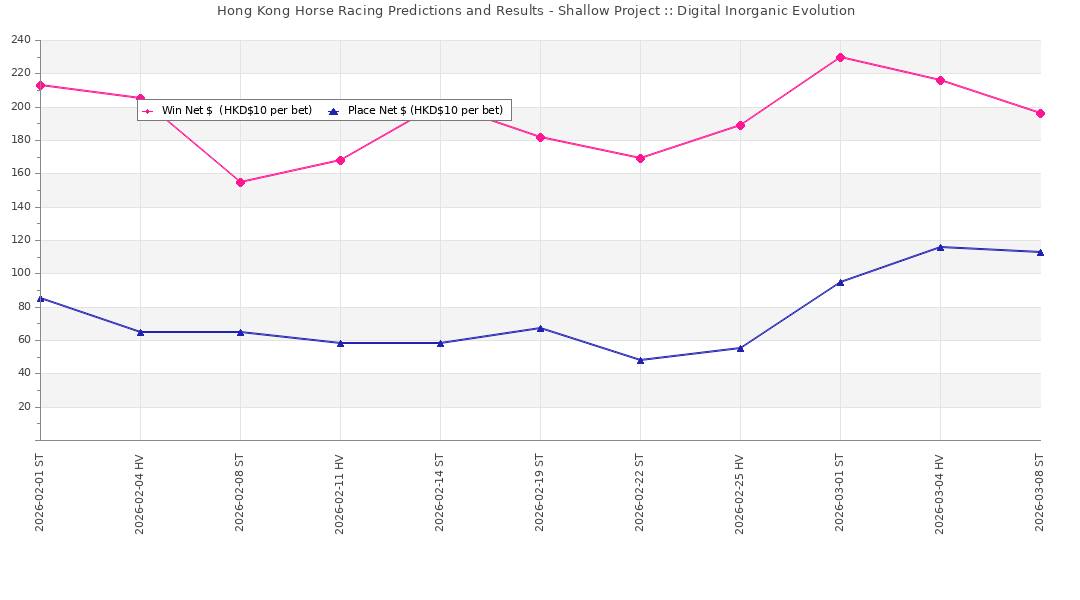
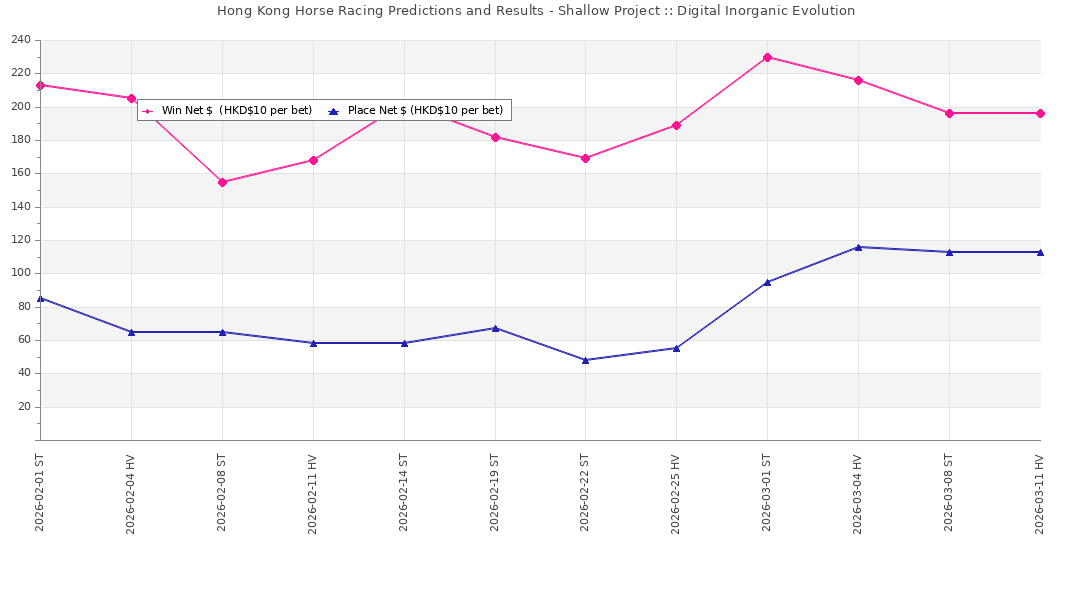
2026-03-11 Predictions

diff --git a/index.html b/index.html
@@ -8,45 +8,49 @@
 <img src='shallow.jpg'>
 <table border=1>
 <tr><th>RaceDate</th><th>RaceCourse</th><th>Course</th><th>Distance</th><th>RaceNo</th><th>HorseNo</th><th>Place</th><th>$Win</th><th>$Win Net Balance</th><th>$Place</th><th>$Place Net Balance</th></tr>
-<tr><td align=center>2026-02-01</td><td align=center>ST</td><td align=center>TURF - "B+2" Course</td><td align=center>1000M</td><td align=center>01</td><td align=center>12</td><td align=center>4</td><td align=right>$0</td><td align=right>$-10</td><td align=right>$0</td><td align=right>$-10</td></tr>
-<tr><td align=center>2026-02-01</td><td align=center>ST</td><td align=center>TURF - "B+2" Course</td><td align=center>1200M</td><td align=center>02</td><td align=center>9</td><td align=center>1</td><td align=right>$100</td><td align=right>$80</td><td align=right>$42</td><td align=right>$22</td></tr>
-<tr><td align=center>2026-02-01</td><td align=center>ST</td><td align=center>TURF - "B+2" Course</td><td align=center>1400M</td><td align=center>03</td><td align=center>1</td><td align=center>1</td><td align=right>$18</td><td align=right>$88</td><td align=right>$15</td><td align=right>$27</td></tr>
-<tr><td align=center>2026-02-01</td><td align=center>ST</td><td align=center>TURF - "B+2" Course</td><td align=center>1200M</td><td align=center>04</td><td align=center>6</td><td align=center>1</td><td align=right>$26</td><td align=right>$104</td><td align=right>$17</td><td align=right>$34</td></tr>
-<tr><td align=center>2026-02-01</td><td align=center>ST</td><td align=center>TURF - "B+2" Course</td><td align=center>1200M</td><td align=center>05</td><td align=center>12</td><td align=center>1</td><td align=right>$95</td><td align=right>$189</td><td align=right>$17</td><td align=right>$41</td></tr>
-<tr><td align=center>2026-02-01</td><td align=center>ST</td><td align=center>TURF - "B+2" Course</td><td align=center>1000M</td><td align=center>06</td><td align=center>7</td><td align=center>3</td><td align=right>$0</td><td align=right>$179</td><td align=right>$17</td><td align=right>$48</td></tr>
-<tr><td align=center>2026-02-01</td><td align=center>ST</td><td align=center>TURF - "B+2" Course</td><td align=center>1600M</td><td align=center>10</td><td align=center>8</td><td align=center>1</td><td align=right>$54</td><td align=right>$223</td><td align=right>$34</td><td align=right>$72</td></tr>
-<tr><td align=center>2026-02-01</td><td align=center>ST</td><td align=center>TURF - "B+2" Course</td><td align=center>1400M</td><td align=center>11</td><td align=center>2</td><td align=center>2</td><td align=right>$0</td><td align=right>$213</td><td align=right>$23</td><td align=right>$85</td></tr>
-<tr><td align=center>2026-02-04</td><td align=center>HV</td><td align=center>TURF - "C+3" Course</td><td align=center>1800M</td><td align=center>04</td><td align=center>3</td><td align=center>8</td><td align=right>$0</td><td align=right>$203</td><td align=right>$0</td><td align=right>$75</td></tr>
-<tr><td align=center>2026-02-04</td><td align=center>HV</td><td align=center>TURF - "C+3" Course</td><td align=center>1650M</td><td align=center>05</td><td align=center>8</td><td align=center>1</td><td align=right>$42</td><td align=right>$235</td><td align=right>$16</td><td align=right>$81</td></tr>
-<tr><td align=center>2026-02-04</td><td align=center>HV</td><td align=center>TURF - "C+3" Course</td><td align=center>1000M</td><td align=center>06</td><td align=center>3</td><td align=center>3</td><td align=right>$0</td><td align=right>$225</td><td align=right>$14</td><td align=right>$85</td></tr>
-<tr><td align=center>2026-02-04</td><td align=center>HV</td><td align=center>TURF - "C+3" Course</td><td align=center>1200M</td><td align=center>07</td><td align=center>12</td><td align=center>7</td><td align=right>$0</td><td align=right>$215</td><td align=right>$0</td><td align=right>$75</td></tr>
-<tr><td align=center>2026-02-04</td><td align=center>HV</td><td align=center>TURF - "C+3" Course</td><td align=center>1200M</td><td align=center>08</td><td align=center>2</td><td align=center>7</td><td align=right>$0</td><td align=right>$205</td><td align=right>$0</td><td align=right>$65</td></tr>
-<tr><td align=center>2026-02-08</td><td align=center>ST</td><td align=center>ALL WEATHER TRACK</td><td align=center>1200M</td><td align=center>04</td><td align=center>1</td><td align=center>3</td><td align=right>$0</td><td align=right>$195</td><td align=right>$19</td><td align=right>$74</td></tr>
-<tr><td align=center>2026-02-08</td><td align=center>ST</td><td align=center>TURF - "C" Course</td><td align=center>1800M</td><td align=center>08</td><td align=center>5</td><td align=center>2</td><td align=right>$0</td><td align=right>$185</td><td align=right>$14</td><td align=right>$78</td></tr>
-<tr><td align=center>2026-02-08</td><td align=center>ST</td><td align=center>ALL WEATHER TRACK</td><td align=center>1200M</td><td align=center>09</td><td align=center>3</td><td align=center>5</td><td align=right>$0</td><td align=right>$175</td><td align=right>$0</td><td align=right>$68</td></tr>
-<tr><td align=center>2026-02-11</td><td align=center>HV</td><td align=center>TURF - "A" Course</td><td align=center>1650M</td><td align=center>01</td><td align=center>8</td><td align=center>1</td><td align=right>$53</td><td align=right>$218</td><td align=right>$21</td><td align=right>$79</td></tr>
-<tr><td align=center>2026-02-11</td><td align=center>HV</td><td align=center>TURF - "A" Course</td><td align=center>1650M</td><td align=center>06</td><td align=center>2</td><td align=center>2</td><td align=right>$0</td><td align=right>$208</td><td align=right>$12</td><td align=right>$81</td></tr>
-<tr><td align=center>2026-02-11</td><td align=center>HV</td><td align=center>TURF - "A" Course</td><td align=center>1200M</td><td align=center>08</td><td align=center>11</td><td align=center>7</td><td align=right>$0</td><td align=right>$198</td><td align=right>$0</td><td align=right>$71</td></tr>
-<tr><td align=center>2026-02-14</td><td align=center>ST</td><td align=center>TURF - "C+3" Course</td><td align=center>1200M</td><td align=center>03</td><td align=center>6</td><td align=center>1</td><td align=right>$25</td><td align=right>$213</td><td align=right>$13</td><td align=right>$74</td></tr>
-<tr><td align=center>2026-02-14</td><td align=center>ST</td><td align=center>TURF - "C+3" Course</td><td align=center>1400M</td><td align=center>08</td><td align=center>4</td><td align=center>8</td><td align=right>$0</td><td align=right>$203</td><td align=right>$0</td><td align=right>$64</td></tr>
-<tr><td align=center>2026-02-19</td><td align=center>ST</td><td align=center>TURF - "A" Course</td><td align=center>1200M</td><td align=center>05</td><td align=center>1</td><td align=center>2</td><td align=right>$0</td><td align=right>$193</td><td align=right>$14</td><td align=right>$68</td></tr>
-<tr><td align=center>2026-02-19</td><td align=center>ST</td><td align=center>TURF - "A" Course</td><td align=center>1200M</td><td align=center>08</td><td align=center>1</td><td align=center>2</td><td align=right>$0</td><td align=right>$183</td><td align=right>$15</td><td align=right>$73</td></tr>
-<tr><td align=center>2026-02-22</td><td align=center>ST</td><td align=center>TURF - "A+3" Course</td><td align=center>1200M</td><td align=center>05</td><td align=center>1</td><td align=center>1</td><td align=right>$17</td><td align=right>$190</td><td align=right>$11</td><td align=right>$74</td></tr>
-<tr><td align=center>2026-02-22</td><td align=center>ST</td><td align=center>TURF - "A+3" Course</td><td align=center>1400M</td><td align=center>07</td><td align=center>1</td><td align=center>9</td><td align=right>$0</td><td align=right>$180</td><td align=right>$0</td><td align=right>$64</td></tr>
-<tr><td align=center>2026-02-22</td><td align=center>ST</td><td align=center>TURF - "A+3" Course</td><td align=center>1400M</td><td align=center>08</td><td align=center>1</td><td align=center>1</td><td align=right>$10</td><td align=right>$180</td><td align=right>$10</td><td align=right>$64</td></tr>
-<tr><td align=center>2026-02-22</td><td align=center>ST</td><td align=center>TURF - "A+3" Course</td><td align=center>1400M</td><td align=center>11</td><td align=center>1</td><td align=center>4</td><td align=right>$0</td><td align=right>$170</td><td align=right>$0</td><td align=right>$54</td></tr>
-<tr><td align=center>2026-02-25</td><td align=center>HV</td><td align=center>TURF - "B" Course</td><td align=center>1200M</td><td align=center>02</td><td align=center>8</td><td align=center>2</td><td align=right>$0</td><td align=right>$160</td><td align=right>$12</td><td align=right>$56</td></tr>
-<tr><td align=center>2026-02-25</td><td align=center>HV</td><td align=center>TURF - "B" Course</td><td align=center>1650M</td><td align=center>06</td><td align=center>1</td><td align=center>1</td><td align=right>$40</td><td align=right>$190</td><td align=right>$15</td><td align=right>$61</td></tr>
-<tr><td align=center>2026-03-01</td><td align=center>ST</td><td align=center>TURF - "B+2" Course</td><td align=center>1400M</td><td align=center>03</td><td align=center>8</td><td align=center>1</td><td align=right>$17</td><td align=right>$197</td><td align=right>$12</td><td align=right>$63</td></tr>
-<tr><td align=center>2026-03-01</td><td align=center>ST</td><td align=center>TURF - "B+2" Course</td><td align=center>1200M</td><td align=center>06</td><td align=center>3</td><td align=center>1</td><td align=right>$38</td><td align=right>$225</td><td align=right>$15</td><td align=right>$68</td></tr>
-<tr><td align=center>2026-03-01</td><td align=center>ST</td><td align=center>TURF - "B+2" Course</td><td align=center>2000M</td><td align=center>07</td><td align=center>6</td><td align=center>3</td><td align=right>$0</td><td align=right>$215</td><td align=right>$41</td><td align=right>$99</td></tr>
-<tr><td align=center>2026-03-01</td><td align=center>ST</td><td align=center>TURF - "B+2" Course</td><td align=center>1400M</td><td align=center>11</td><td align=center>9</td><td align=center>1</td><td align=right>$26</td><td align=right>$231</td><td align=right>$12</td><td align=right>$101</td></tr>
-<tr><td align=center>2026-03-04</td><td align=center>HV</td><td align=center>TURF - "C" Course</td><td align=center>1200M</td><td align=center>02</td><td align=center>6</td><td align=center>2</td><td align=right>$0</td><td align=right>$221</td><td align=right>$18</td><td align=right>$109</td></tr>
-<tr><td align=center>2026-03-04</td><td align=center>HV</td><td align=center>TURF - "C" Course</td><td align=center>1200M</td><td align=center>05</td><td align=center>5</td><td align=center>1</td><td align=right>$26</td><td align=right>$237</td><td align=right>$13</td><td align=right>$112</td></tr>
-<tr><td align=center>2026-03-04</td><td align=center>HV</td><td align=center>TURF - "C" Course</td><td align=center>1200M</td><td align=center>06</td><td align=center>7</td><td align=center>2</td><td align=right>$0</td><td align=right>$227</td><td align=right>$14</td><td align=right>$116</td></tr>
-<tr><td align=center>2026-03-04</td><td align=center>HV</td><td align=center>TURF - "C" Course</td><td align=center>1650M</td><td align=center>07</td><td align=center>1</td><td align=center>3</td><td align=right>$0</td><td align=right>$217</td><td align=right>$16</td><td align=right>$122</td></tr>
-<tr><td align=center>2026-03-08</td><td align=center>ST</td><td align=center>TURF - "C" Course</td><td align=center>1400M</td><td align=center>02</td><td align=center>1</td><td align=center>3</td><td align=right>$0</td><td align=right>$207</td><td align=right>$17</td><td align=right>$129</td></tr>
-<tr><td align=center>2026-03-08</td><td align=center>ST</td><td align=center>ALL WEATHER TRACK</td><td align=center>1200M</td><td align=center>03</td><td align=center>2</td><td align=center>5</td><td align=right>$0</td><td align=right>$197</td><td align=right>$0</td><td align=right>$119</td></tr>
+<tr><td align=center>2026-03-11</td><td align=center>HV</td><td align=center>TURF - "C+3" Course</td><td align=center>1200M</td><td align=center>02</td><td align=center>2</td><td align=center></td><td align=right>$0</td><td align=right>$0</td><td align=right>$0</td><td align=right>$0</td></tr>
+<tr><td align=center>2026-03-11</td><td align=center>HV</td><td align=center>TURF - "C+3" Course</td><td align=center>1650M</td><td align=center>03</td><td align=center>4</td><td align=center></td><td align=right>$0</td><td align=right>$0</td><td align=right>$0</td><td align=right>$0</td></tr>
+<tr><td align=center>2026-03-11</td><td align=center>HV</td><td align=center>TURF - "C+3" Course</td><td align=center>1200M</td><td align=center>05</td><td align=center>3</td><td align=center></td><td align=right>$0</td><td align=right>$0</td><td align=right>$0</td><td align=right>$0</td></tr>
+<tr><td align=center>2026-03-11</td><td align=center>HV</td><td align=center>TURF - "C+3" Course</td><td align=center>1800M</td><td align=center>09</td><td align=center>11</td><td align=center></td><td align=right>$0</td><td align=right>$0</td><td align=right>$0</td><td align=right>$0</td></tr>
+<tr><td align=center>2026-03-08</td><td align=center>ST</td><td align=center>TURF - "C" Course</td><td align=center>1400M</td><td align=center>02</td><td align=center>1</td><td align=center>3</td><td align=right>$0</td><td align=right>$-10</td><td align=right>$17</td><td align=right>$7</td></tr>
+<tr><td align=center>2026-03-08</td><td align=center>ST</td><td align=center>ALL WEATHER TRACK</td><td align=center>1200M</td><td align=center>03</td><td align=center>2</td><td align=center>5</td><td align=right>$0</td><td align=right>$-20</td><td align=right>$0</td><td align=right>$-3</td></tr>
+<tr><td align=center>2026-03-04</td><td align=center>HV</td><td align=center>TURF - "C" Course</td><td align=center>1200M</td><td align=center>02</td><td align=center>6</td><td align=center>2</td><td align=right>$0</td><td align=right>$-30</td><td align=right>$18</td><td align=right>$5</td></tr>
+<tr><td align=center>2026-03-04</td><td align=center>HV</td><td align=center>TURF - "C" Course</td><td align=center>1200M</td><td align=center>05</td><td align=center>5</td><td align=center>1</td><td align=right>$26</td><td align=right>$-14</td><td align=right>$13</td><td align=right>$8</td></tr>
+<tr><td align=center>2026-03-04</td><td align=center>HV</td><td align=center>TURF - "C" Course</td><td align=center>1200M</td><td align=center>06</td><td align=center>7</td><td align=center>2</td><td align=right>$0</td><td align=right>$-24</td><td align=right>$14</td><td align=right>$12</td></tr>
+<tr><td align=center>2026-03-04</td><td align=center>HV</td><td align=center>TURF - "C" Course</td><td align=center>1650M</td><td align=center>07</td><td align=center>1</td><td align=center>3</td><td align=right>$0</td><td align=right>$-34</td><td align=right>$16</td><td align=right>$18</td></tr>
+<tr><td align=center>2026-03-01</td><td align=center>ST</td><td align=center>TURF - "B+2" Course</td><td align=center>1400M</td><td align=center>03</td><td align=center>8</td><td align=center>1</td><td align=right>$17</td><td align=right>$-27</td><td align=right>$12</td><td align=right>$20</td></tr>
+<tr><td align=center>2026-03-01</td><td align=center>ST</td><td align=center>TURF - "B+2" Course</td><td align=center>1200M</td><td align=center>06</td><td align=center>3</td><td align=center>1</td><td align=right>$38</td><td align=right>$1</td><td align=right>$15</td><td align=right>$25</td></tr>
+<tr><td align=center>2026-03-01</td><td align=center>ST</td><td align=center>TURF - "B+2" Course</td><td align=center>2000M</td><td align=center>07</td><td align=center>6</td><td align=center>3</td><td align=right>$0</td><td align=right>$-9</td><td align=right>$41</td><td align=right>$56</td></tr>
+<tr><td align=center>2026-03-01</td><td align=center>ST</td><td align=center>TURF - "B+2" Course</td><td align=center>1400M</td><td align=center>11</td><td align=center>9</td><td align=center>1</td><td align=right>$26</td><td align=right>$7</td><td align=right>$12</td><td align=right>$58</td></tr>
+<tr><td align=center>2026-02-25</td><td align=center>HV</td><td align=center>TURF - "B" Course</td><td align=center>1200M</td><td align=center>02</td><td align=center>8</td><td align=center>2</td><td align=right>$0</td><td align=right>$-3</td><td align=right>$12</td><td align=right>$60</td></tr>
+<tr><td align=center>2026-02-25</td><td align=center>HV</td><td align=center>TURF - "B" Course</td><td align=center>1650M</td><td align=center>06</td><td align=center>1</td><td align=center>1</td><td align=right>$40</td><td align=right>$27</td><td align=right>$15</td><td align=right>$65</td></tr>
+<tr><td align=center>2026-02-22</td><td align=center>ST</td><td align=center>TURF - "A+3" Course</td><td align=center>1200M</td><td align=center>05</td><td align=center>1</td><td align=center>1</td><td align=right>$17</td><td align=right>$34</td><td align=right>$11</td><td align=right>$66</td></tr>
+<tr><td align=center>2026-02-22</td><td align=center>ST</td><td align=center>TURF - "A+3" Course</td><td align=center>1400M</td><td align=center>07</td><td align=center>1</td><td align=center>9</td><td align=right>$0</td><td align=right>$24</td><td align=right>$0</td><td align=right>$56</td></tr>
+<tr><td align=center>2026-02-22</td><td align=center>ST</td><td align=center>TURF - "A+3" Course</td><td align=center>1400M</td><td align=center>08</td><td align=center>1</td><td align=center>1</td><td align=right>$10</td><td align=right>$24</td><td align=right>$10</td><td align=right>$56</td></tr>
+<tr><td align=center>2026-02-22</td><td align=center>ST</td><td align=center>TURF - "A+3" Course</td><td align=center>1400M</td><td align=center>11</td><td align=center>1</td><td align=center>4</td><td align=right>$0</td><td align=right>$14</td><td align=right>$0</td><td align=right>$46</td></tr>
+<tr><td align=center>2026-02-19</td><td align=center>ST</td><td align=center>TURF - "A" Course</td><td align=center>1200M</td><td align=center>05</td><td align=center>1</td><td align=center>2</td><td align=right>$0</td><td align=right>$4</td><td align=right>$14</td><td align=right>$50</td></tr>
+<tr><td align=center>2026-02-19</td><td align=center>ST</td><td align=center>TURF - "A" Course</td><td align=center>1200M</td><td align=center>08</td><td align=center>1</td><td align=center>2</td><td align=right>$0</td><td align=right>$-6</td><td align=right>$15</td><td align=right>$55</td></tr>
+<tr><td align=center>2026-02-14</td><td align=center>ST</td><td align=center>TURF - "C+3" Course</td><td align=center>1200M</td><td align=center>03</td><td align=center>6</td><td align=center>1</td><td align=right>$25</td><td align=right>$9</td><td align=right>$13</td><td align=right>$58</td></tr>
+<tr><td align=center>2026-02-14</td><td align=center>ST</td><td align=center>TURF - "C+3" Course</td><td align=center>1400M</td><td align=center>08</td><td align=center>4</td><td align=center>8</td><td align=right>$0</td><td align=right>$-1</td><td align=right>$0</td><td align=right>$48</td></tr>
+<tr><td align=center>2026-02-11</td><td align=center>HV</td><td align=center>TURF - "A" Course</td><td align=center>1650M</td><td align=center>01</td><td align=center>8</td><td align=center>1</td><td align=right>$53</td><td align=right>$42</td><td align=right>$21</td><td align=right>$59</td></tr>
+<tr><td align=center>2026-02-11</td><td align=center>HV</td><td align=center>TURF - "A" Course</td><td align=center>1650M</td><td align=center>06</td><td align=center>2</td><td align=center>2</td><td align=right>$0</td><td align=right>$32</td><td align=right>$12</td><td align=right>$61</td></tr>
+<tr><td align=center>2026-02-11</td><td align=center>HV</td><td align=center>TURF - "A" Course</td><td align=center>1200M</td><td align=center>08</td><td align=center>11</td><td align=center>7</td><td align=right>$0</td><td align=right>$22</td><td align=right>$0</td><td align=right>$51</td></tr>
+<tr><td align=center>2026-02-08</td><td align=center>ST</td><td align=center>ALL WEATHER TRACK</td><td align=center>1200M</td><td align=center>04</td><td align=center>1</td><td align=center>3</td><td align=right>$0</td><td align=right>$12</td><td align=right>$19</td><td align=right>$60</td></tr>
+<tr><td align=center>2026-02-08</td><td align=center>ST</td><td align=center>TURF - "C" Course</td><td align=center>1800M</td><td align=center>08</td><td align=center>5</td><td align=center>2</td><td align=right>$0</td><td align=right>$2</td><td align=right>$14</td><td align=right>$64</td></tr>
+<tr><td align=center>2026-02-08</td><td align=center>ST</td><td align=center>ALL WEATHER TRACK</td><td align=center>1200M</td><td align=center>09</td><td align=center>3</td><td align=center>5</td><td align=right>$0</td><td align=right>$-8</td><td align=right>$0</td><td align=right>$54</td></tr>
+<tr><td align=center>2026-02-04</td><td align=center>HV</td><td align=center>TURF - "C+3" Course</td><td align=center>1800M</td><td align=center>04</td><td align=center>3</td><td align=center>8</td><td align=right>$0</td><td align=right>$-18</td><td align=right>$0</td><td align=right>$44</td></tr>
+<tr><td align=center>2026-02-04</td><td align=center>HV</td><td align=center>TURF - "C+3" Course</td><td align=center>1650M</td><td align=center>05</td><td align=center>8</td><td align=center>1</td><td align=right>$42</td><td align=right>$14</td><td align=right>$16</td><td align=right>$50</td></tr>
+<tr><td align=center>2026-02-04</td><td align=center>HV</td><td align=center>TURF - "C+3" Course</td><td align=center>1000M</td><td align=center>06</td><td align=center>3</td><td align=center>3</td><td align=right>$0</td><td align=right>$4</td><td align=right>$14</td><td align=right>$54</td></tr>
+<tr><td align=center>2026-02-04</td><td align=center>HV</td><td align=center>TURF - "C+3" Course</td><td align=center>1200M</td><td align=center>07</td><td align=center>12</td><td align=center>7</td><td align=right>$0</td><td align=right>$-6</td><td align=right>$0</td><td align=right>$44</td></tr>
+<tr><td align=center>2026-02-04</td><td align=center>HV</td><td align=center>TURF - "C+3" Course</td><td align=center>1200M</td><td align=center>08</td><td align=center>2</td><td align=center>7</td><td align=right>$0</td><td align=right>$-16</td><td align=right>$0</td><td align=right>$34</td></tr>
+<tr><td align=center>2026-02-01</td><td align=center>ST</td><td align=center>TURF - "B+2" Course</td><td align=center>1000M</td><td align=center>01</td><td align=center>12</td><td align=center>4</td><td align=right>$0</td><td align=right>$-26</td><td align=right>$0</td><td align=right>$24</td></tr>
+<tr><td align=center>2026-02-01</td><td align=center>ST</td><td align=center>TURF - "B+2" Course</td><td align=center>1200M</td><td align=center>02</td><td align=center>9</td><td align=center>1</td><td align=right>$100</td><td align=right>$64</td><td align=right>$42</td><td align=right>$56</td></tr>
+<tr><td align=center>2026-02-01</td><td align=center>ST</td><td align=center>TURF - "B+2" Course</td><td align=center>1400M</td><td align=center>03</td><td align=center>1</td><td align=center>1</td><td align=right>$18</td><td align=right>$72</td><td align=right>$15</td><td align=right>$61</td></tr>
+<tr><td align=center>2026-02-01</td><td align=center>ST</td><td align=center>TURF - "B+2" Course</td><td align=center>1200M</td><td align=center>04</td><td align=center>6</td><td align=center>1</td><td align=right>$26</td><td align=right>$88</td><td align=right>$17</td><td align=right>$68</td></tr>
+<tr><td align=center>2026-02-01</td><td align=center>ST</td><td align=center>TURF - "B+2" Course</td><td align=center>1200M</td><td align=center>05</td><td align=center>12</td><td align=center>1</td><td align=right>$95</td><td align=right>$173</td><td align=right>$17</td><td align=right>$75</td></tr>
+<tr><td align=center>2026-02-01</td><td align=center>ST</td><td align=center>TURF - "B+2" Course</td><td align=center>1000M</td><td align=center>06</td><td align=center>7</td><td align=center>3</td><td align=right>$0</td><td align=right>$163</td><td align=right>$17</td><td align=right>$82</td></tr>
+<tr><td align=center>2026-02-01</td><td align=center>ST</td><td align=center>TURF - "B+2" Course</td><td align=center>1600M</td><td align=center>10</td><td align=center>8</td><td align=center>1</td><td align=right>$54</td><td align=right>$207</td><td align=right>$34</td><td align=right>$106</td></tr>
+<tr><td align=center>2026-02-01</td><td align=center>ST</td><td align=center>TURF - "B+2" Course</td><td align=center>1400M</td><td align=center>11</td><td align=center>2</td><td align=center>2</td><td align=right>$0</td><td align=right>$197</td><td align=right>$23</td><td align=right>$119</td></tr>
 </table>
 <table border=1>
 <tr><th>Num. Bet</th><th>Num. Win</th><th>Win Accuracy</th><th>Num. Place</th><th>Place Accuracy</th></tr>
@@ -55,5 +59,5 @@
 <p>
 <a href="https://github.com/Digital-Inorganic-Evolution/Digital-Inorganic-Evolution.github.io/commits/main/" target="_blank">Check Commits on GitHub</a>
 <p>
-<h4>Generated at HKT 2026-03-08 19:21:50</h4>
+<h4>Generated at HKT 2026-03-11 18:35:34</h4>
 </html>
